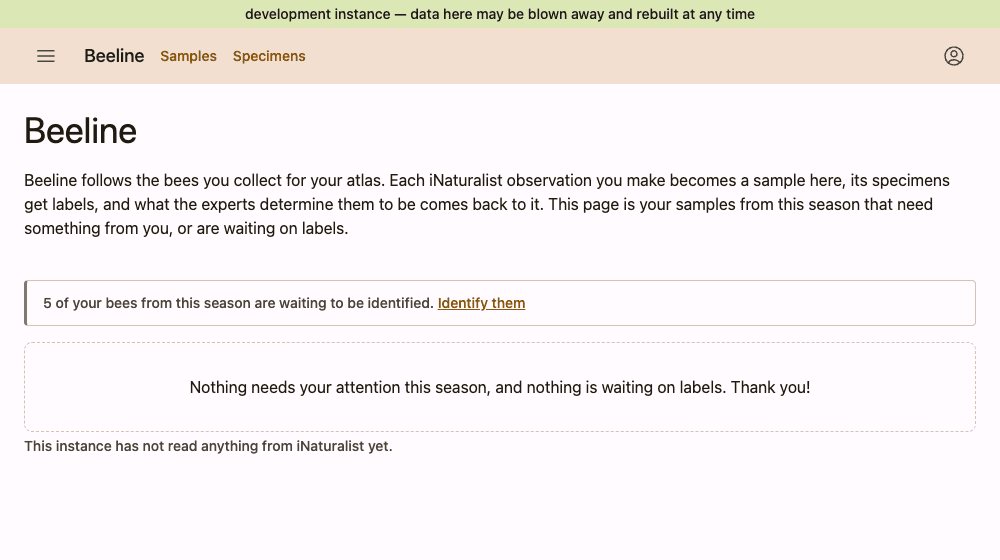
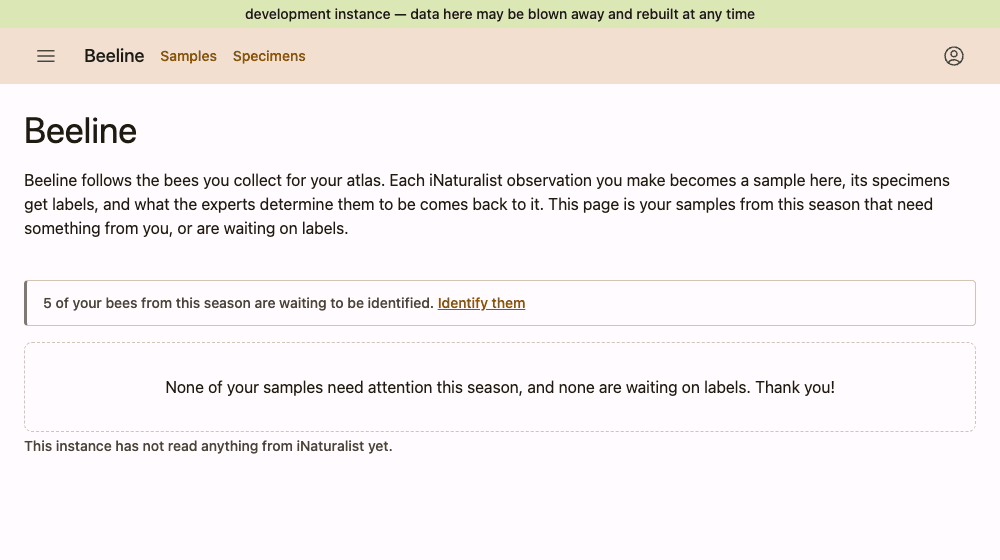
Front page: the empty-table message speaks only for samples
With the identify note above it, "Nothing needs your attention" read as a
contradiction of bees waiting to be identified.

Changed region(s): [[0.155, 0.6679, 0.837, 0.7286]]

diff --git a/test/qc-experience.test.ts b/test/qc-experience.test.ts
@@ -361,7 +361,7 @@ describe("the front page", () => {
                     SELECT s.entity_id, 1 FROM sample s JOIN sample_collector c ON c.sample_id = s.entity_id WHERE c.person_id = ${alice}`);
     await conn.run(`UPDATE sample SET specimen_count = 1 WHERE entity_id IN (SELECT sample_id FROM sample_collector WHERE person_id = ${alice})`);
     const clean = await (await app.request("/")).text();
-    expect(clean).toContain("Nothing needs your attention this season");
+    expect(clean).toContain("None of your samples need attention this season");
     expect(clean).not.toContain("<table>");
   });
 });

diff --git a/src/app/messages/en.ts b/src/app/messages/en.ts
@@ -264,7 +264,7 @@ export const en = {
       host: "Host plant",
       specimens: "Specimens",
     },
-    allClear: "Nothing needs your attention this season, and nothing is waiting on labels. Thank you!",
+    allClear: "None of your samples need attention this season, and none are waiting on labels. Thank you!",
     /**
      * The schedule, in words a volunteer has: never "sync", and never the
      * timestamp of the last run — which the sandbox printed in UTC as 9am
